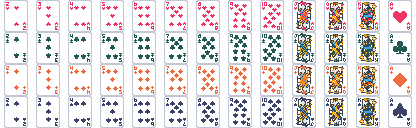
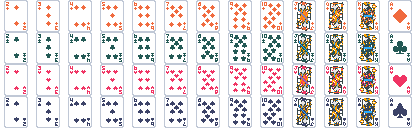
Changed the order of suits to match Balatro

diff --git a/include/card.h b/include/card.h
@@ -15,9 +15,9 @@
 #define CARD_STARTING_LAYER 0
 
 // Card suits
-#define HEARTS 0
+#define DIAMONDS 0
 #define CLUBS 1
-#define DIAMONDS 2
+#define HEARTS 2
 #define SPADES 3
 #define NUM_SUITS 4
 
